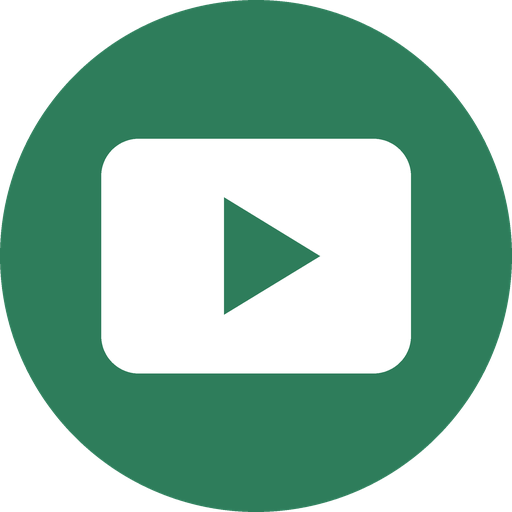
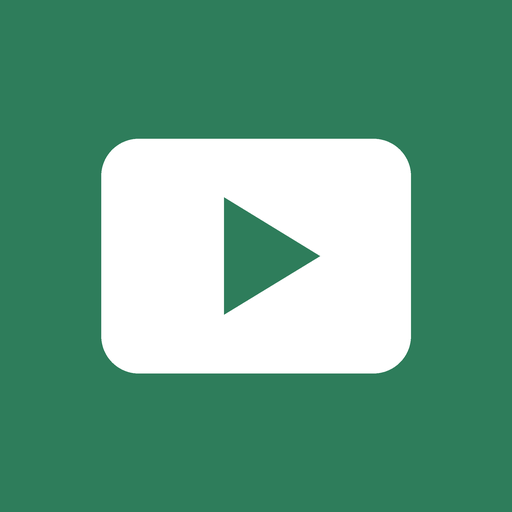
Add files via upload

diff --git a/index.html b/index.html
@@ -5,8 +5,11 @@
 <meta name="viewport" content="width=device-width, initial-scale=1, viewport-fit=cover">
 <meta name="theme-color" content="#16202B">
 <title>Recipino</title>
-<link rel="icon" href="icon-192.png" type="image/png">
-<link rel="apple-touch-icon" href="icon-192.png">
+<link rel="icon" href="favicon.png" type="image/png">
+<link rel="apple-touch-icon" sizes="180x180" href="apple-touch-icon.png">
+<link rel="apple-mobile-web-app-title" content="Recipino">
+<meta name="apple-mobile-web-app-capable" content="yes">
+<meta name="apple-mobile-web-app-status-bar-style" content="black-translucent">
 <link rel="manifest" href="manifest.json">
 <link rel="preconnect" href="https://fonts.googleapis.com">
 <link rel="preconnect" href="https://fonts.gstatic.com" crossorigin>
